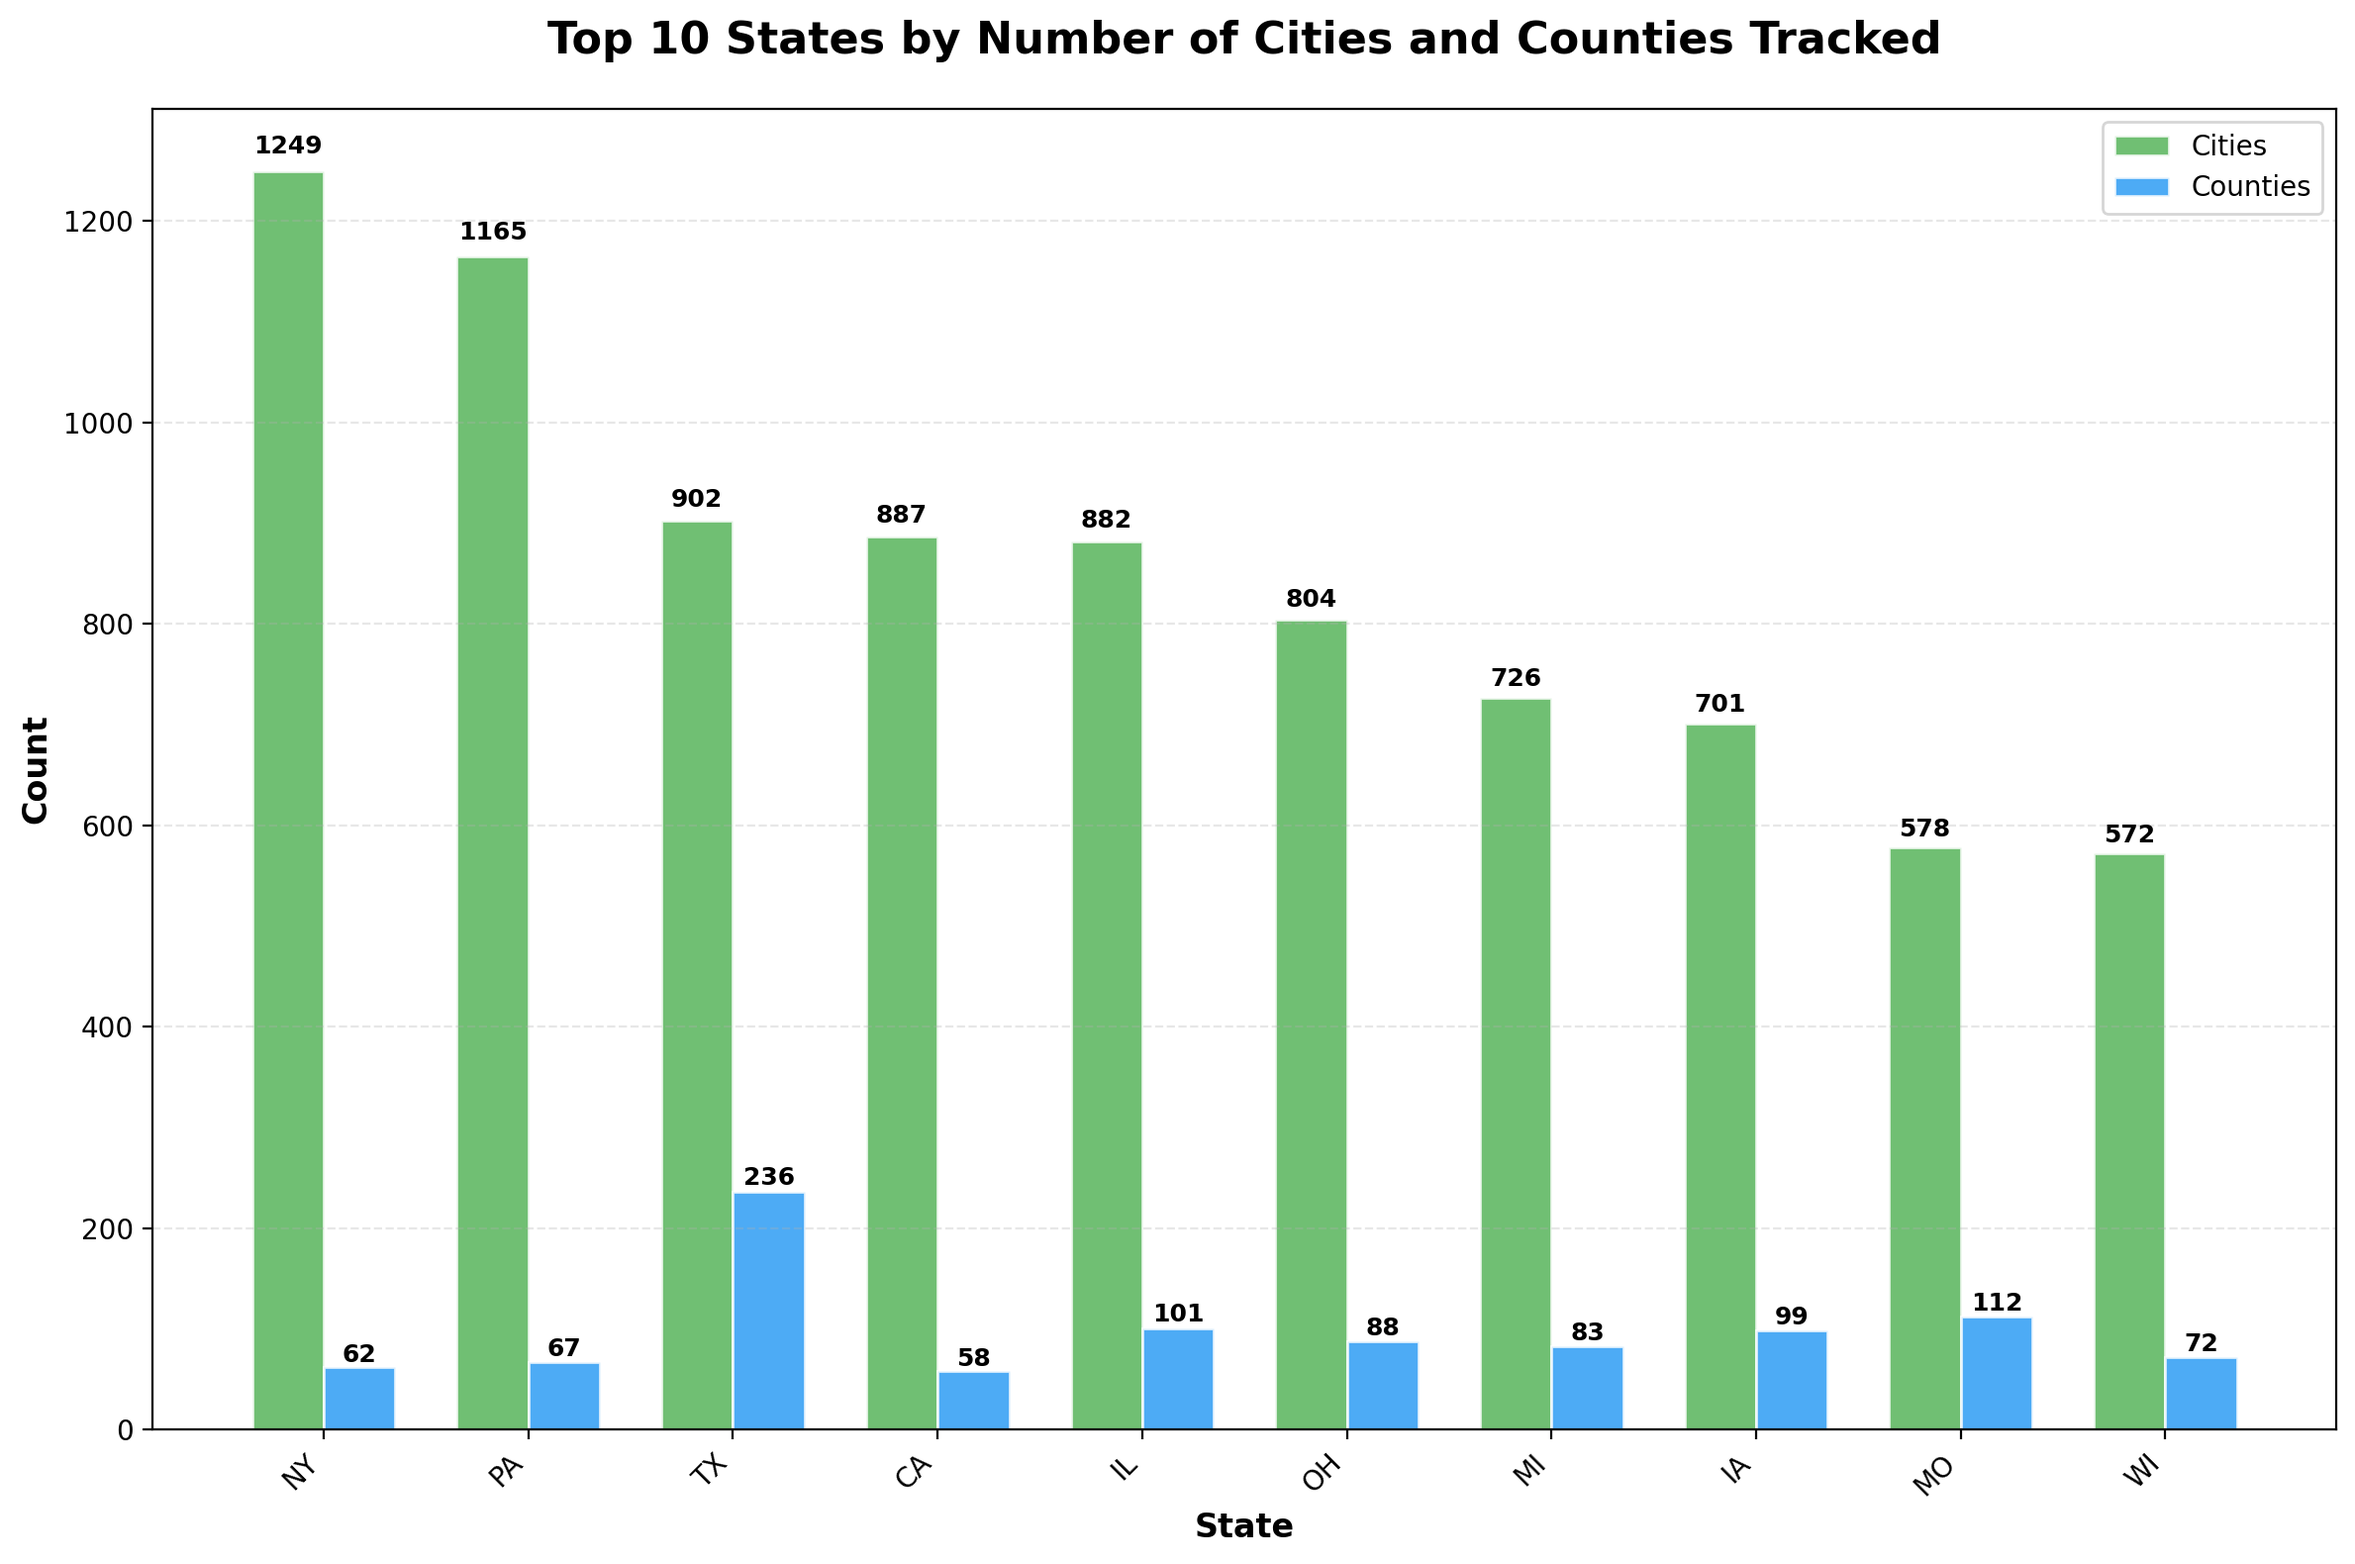
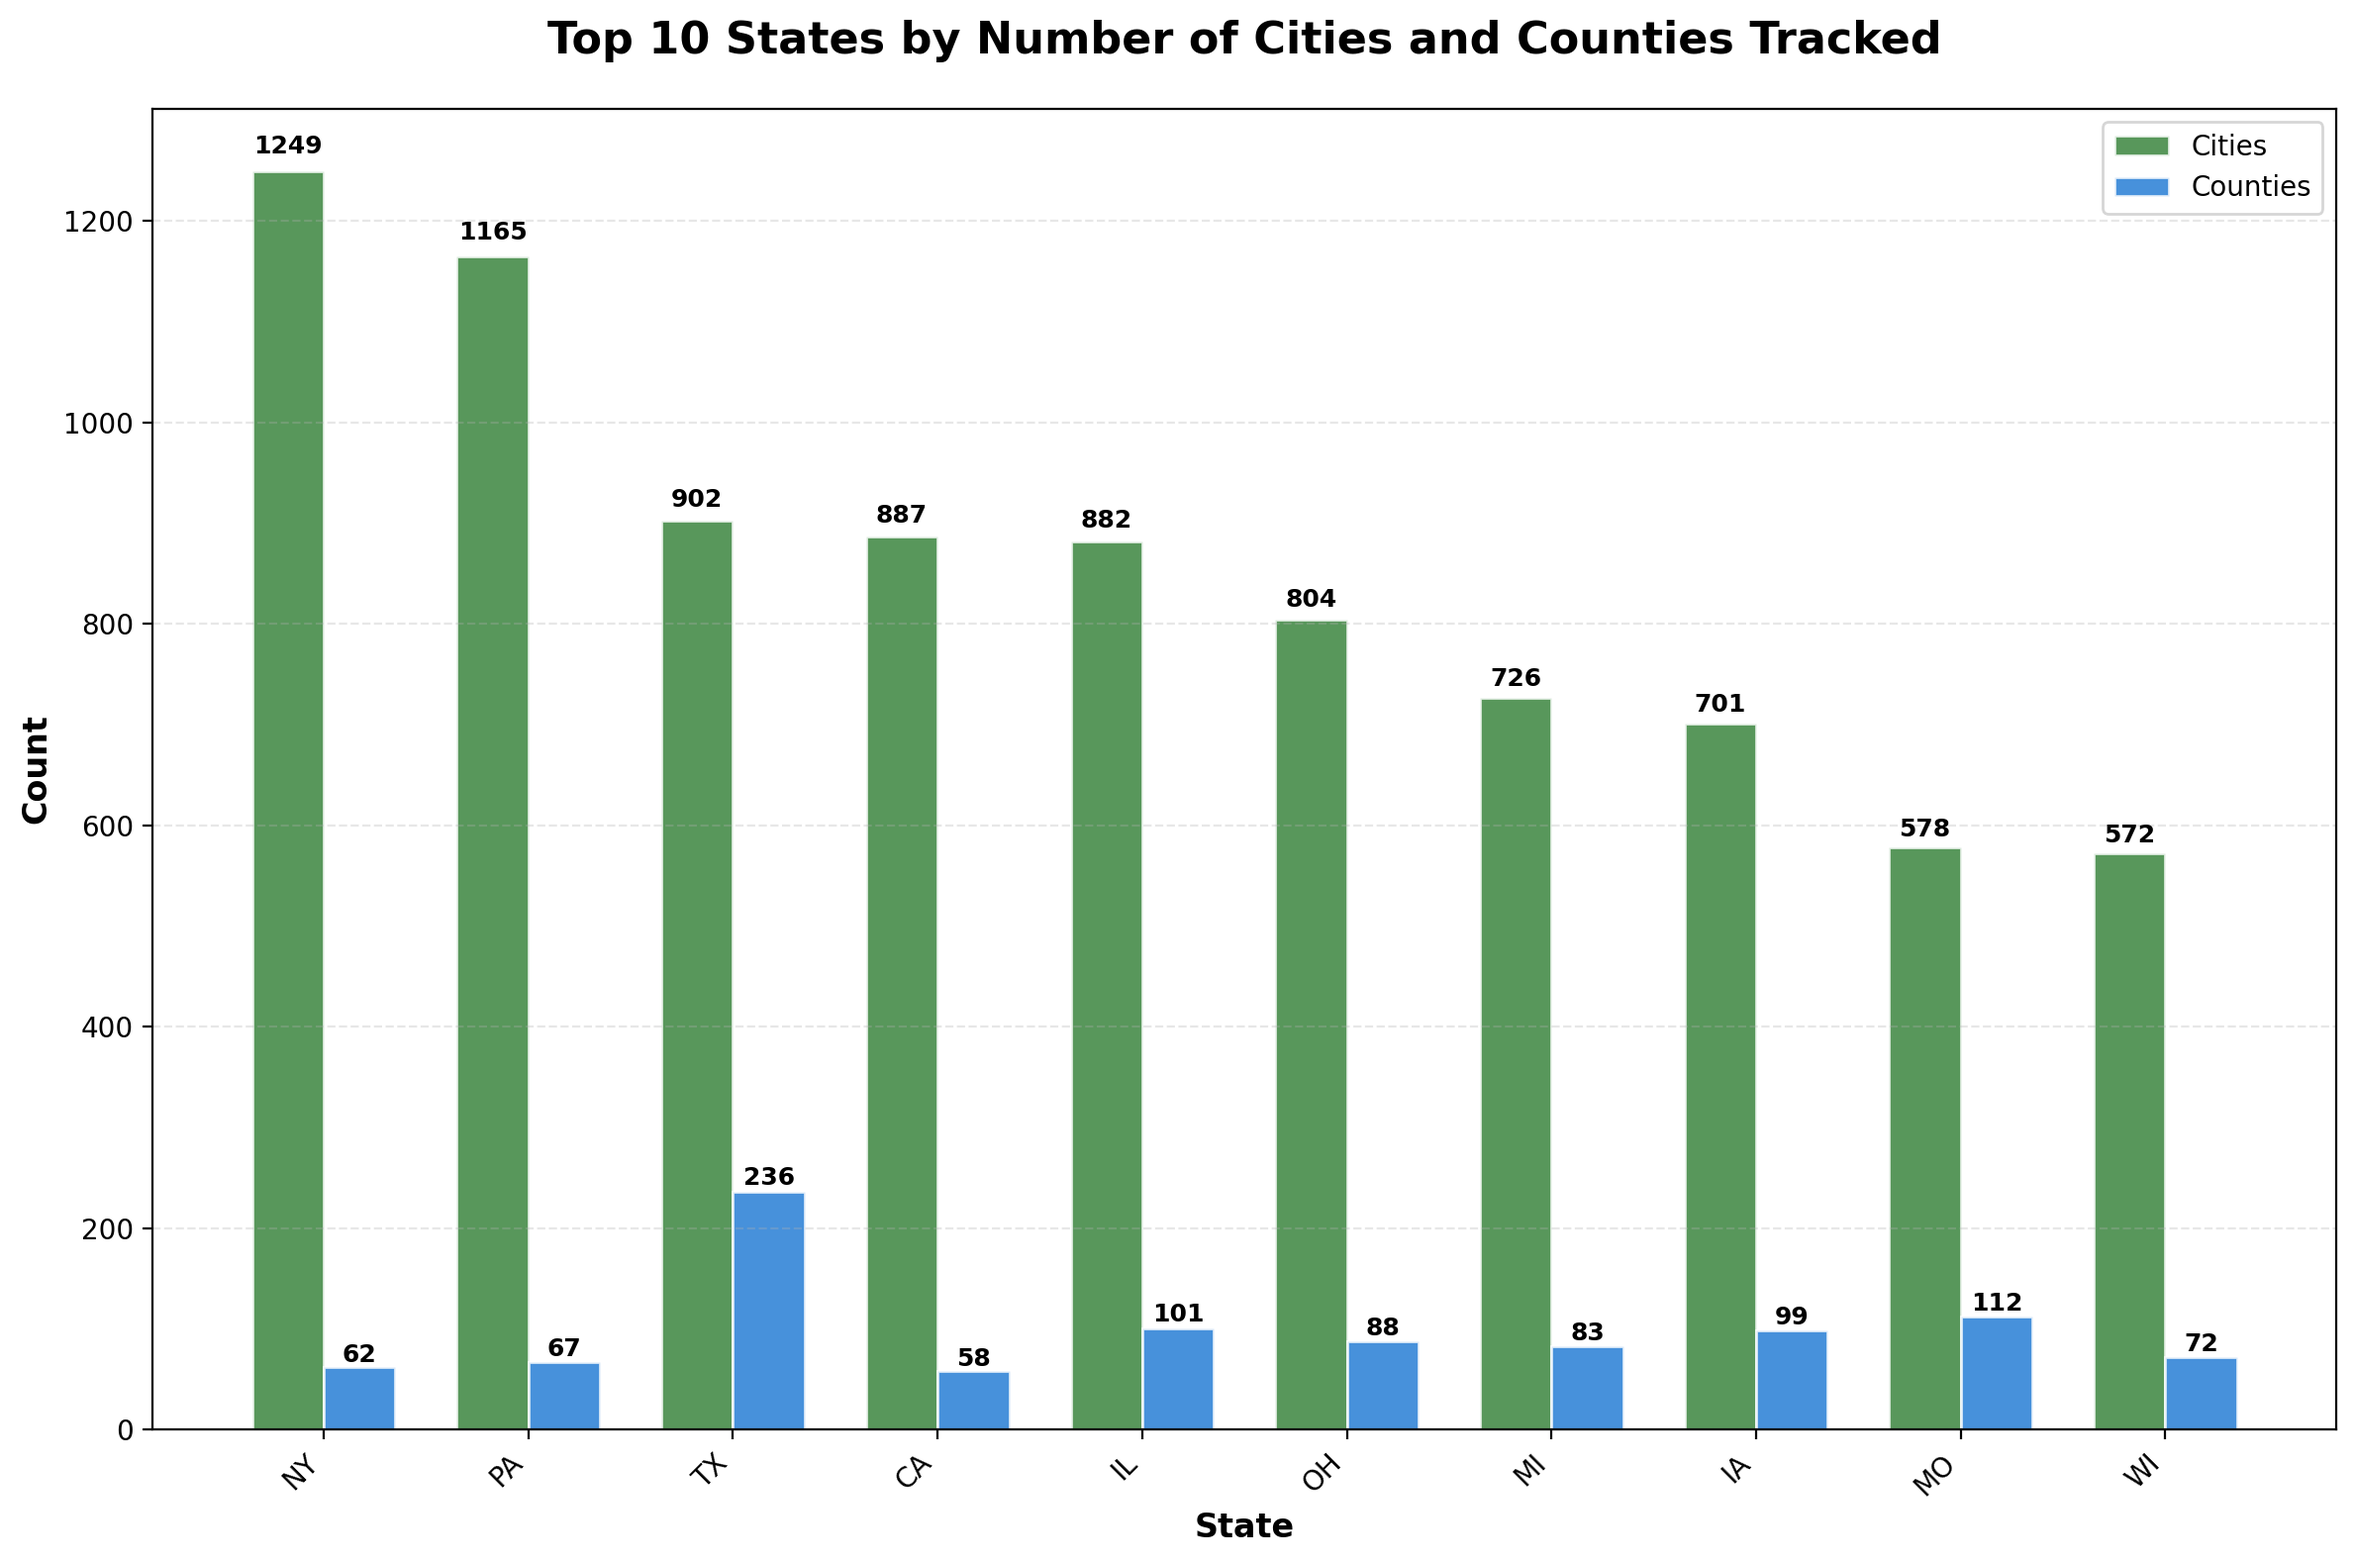
Apply consistent color scheme across all charts

Changed region(s): [[0.0933, 0.093, 0.9643, 0.9304], [0.9021, 0.093, 0.9332, 0.1241]]

diff --git a/housing-portfolio/scripts/run_analysis.py b/housing-portfolio/scripts/run_analysis.py
@@ -91,9 +91,10 @@ def run_queries(con: duckdb.DuckDBPyConnection):
         df1_sample = df1[df1['statename'].isin(top_states)]
         
         plt.figure(figsize=(14, 8))
-        for state in top_states:
+        colors = ['#2E7D32', '#1976D2', '#D32F2F', '#F57C00', '#7B1FA2', '#388E3C', '#303F9F', '#C2185B', '#FBC02D', '#5D4037']
+        for i, state in enumerate(top_states):
             state_data = df1_sample[df1_sample['statename'] == state]
-            plt.plot(state_data['year'], state_data['avg_yearly_index'], marker='o', label=state, linewidth=2)
+            plt.plot(state_data['year'], state_data['avg_yearly_index'], marker='o', label=state, linewidth=2, color=colors[i % len(colors)])
         
         plt.title('Home Value Index Trends: Top 10 States by Average Value', fontsize=14, fontweight='bold')
         plt.xlabel('Year', fontsize=12)
@@ -191,7 +192,7 @@ def run_queries(con: duckdb.DuckDBPyConnection):
         df3 = df3.sort_values('pct_growth', ascending=True)
         
         plt.figure(figsize=(10, 6))
-        bars = plt.barh(df3['city_state'], df3['pct_growth'], color="#FF6B35", alpha=0.8, edgecolor='white', linewidth=1)
+        bars = plt.barh(df3['city_state'], df3['pct_growth'], color="#1976D2", alpha=0.8, edgecolor='white', linewidth=1)
         
         plt.title('Top 5 Cities with Highest Growth in Home Values (2000-2025)', fontsize=16, fontweight='bold', pad=20)
         plt.xlabel('Growth Percentage (%)', fontsize=12, fontweight='bold')
@@ -242,8 +243,8 @@ def run_queries(con: duckdb.DuckDBPyConnection):
         x = range(len(states))
         width = 0.35
         
-        bars1 = plt.bar([i - width/2 for i in x], cities, width, label='Cities', color='#4CAF50', alpha=0.8, edgecolor='white', linewidth=1)
-        bars2 = plt.bar([i + width/2 for i in x], counties, width, label='Counties', color='#2196F3', alpha=0.8, edgecolor='white', linewidth=1)
+        bars1 = plt.bar([i - width/2 for i in x], cities, width, label='Cities', color='#2E7D32', alpha=0.8, edgecolor='white', linewidth=1)
+        bars2 = plt.bar([i + width/2 for i in x], counties, width, label='Counties', color='#1976D2', alpha=0.8, edgecolor='white', linewidth=1)
         
         plt.title('Top 10 States by Number of Cities and Counties Tracked', fontsize=16, fontweight='bold', pad=20)
         plt.xlabel('State', fontsize=12, fontweight='bold')
